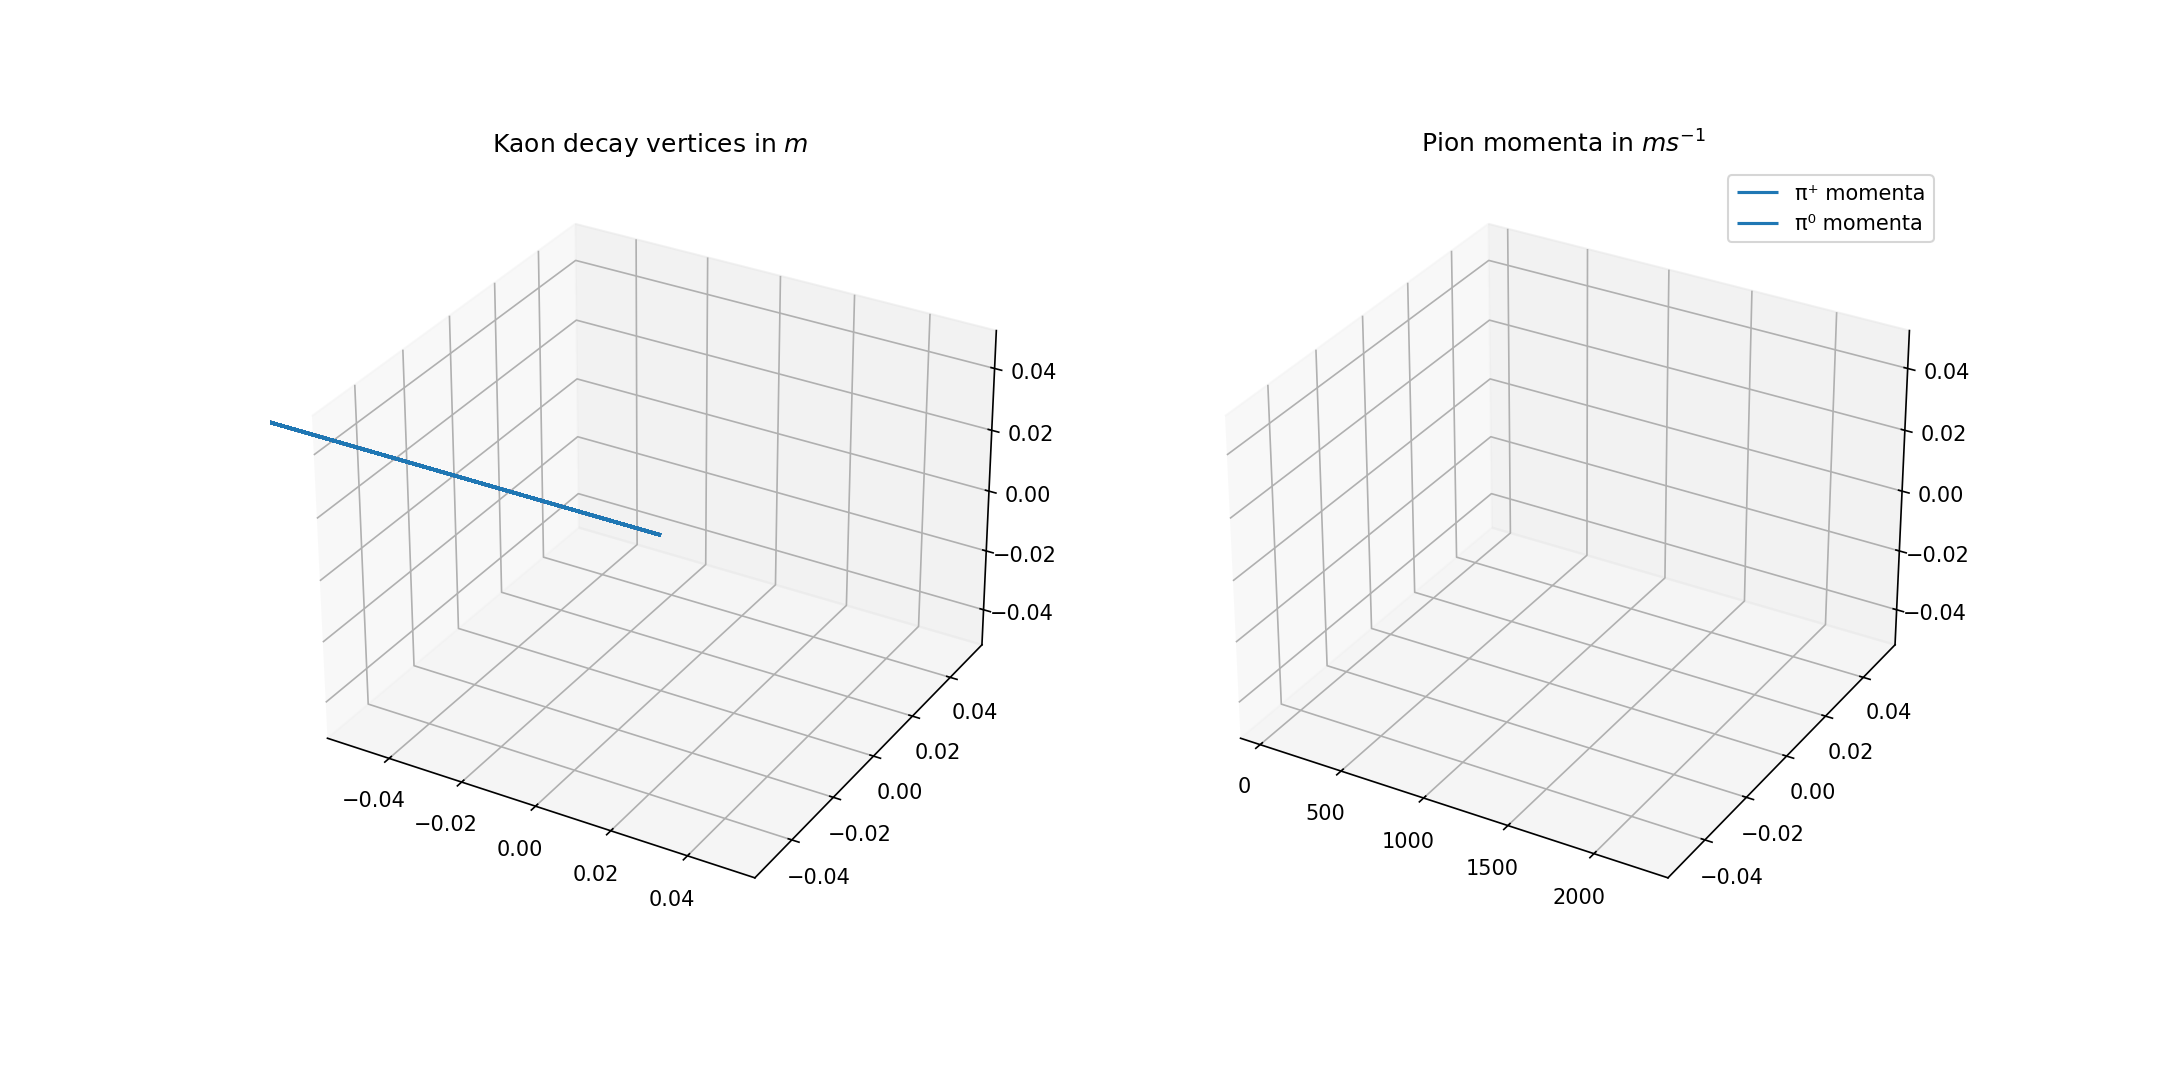
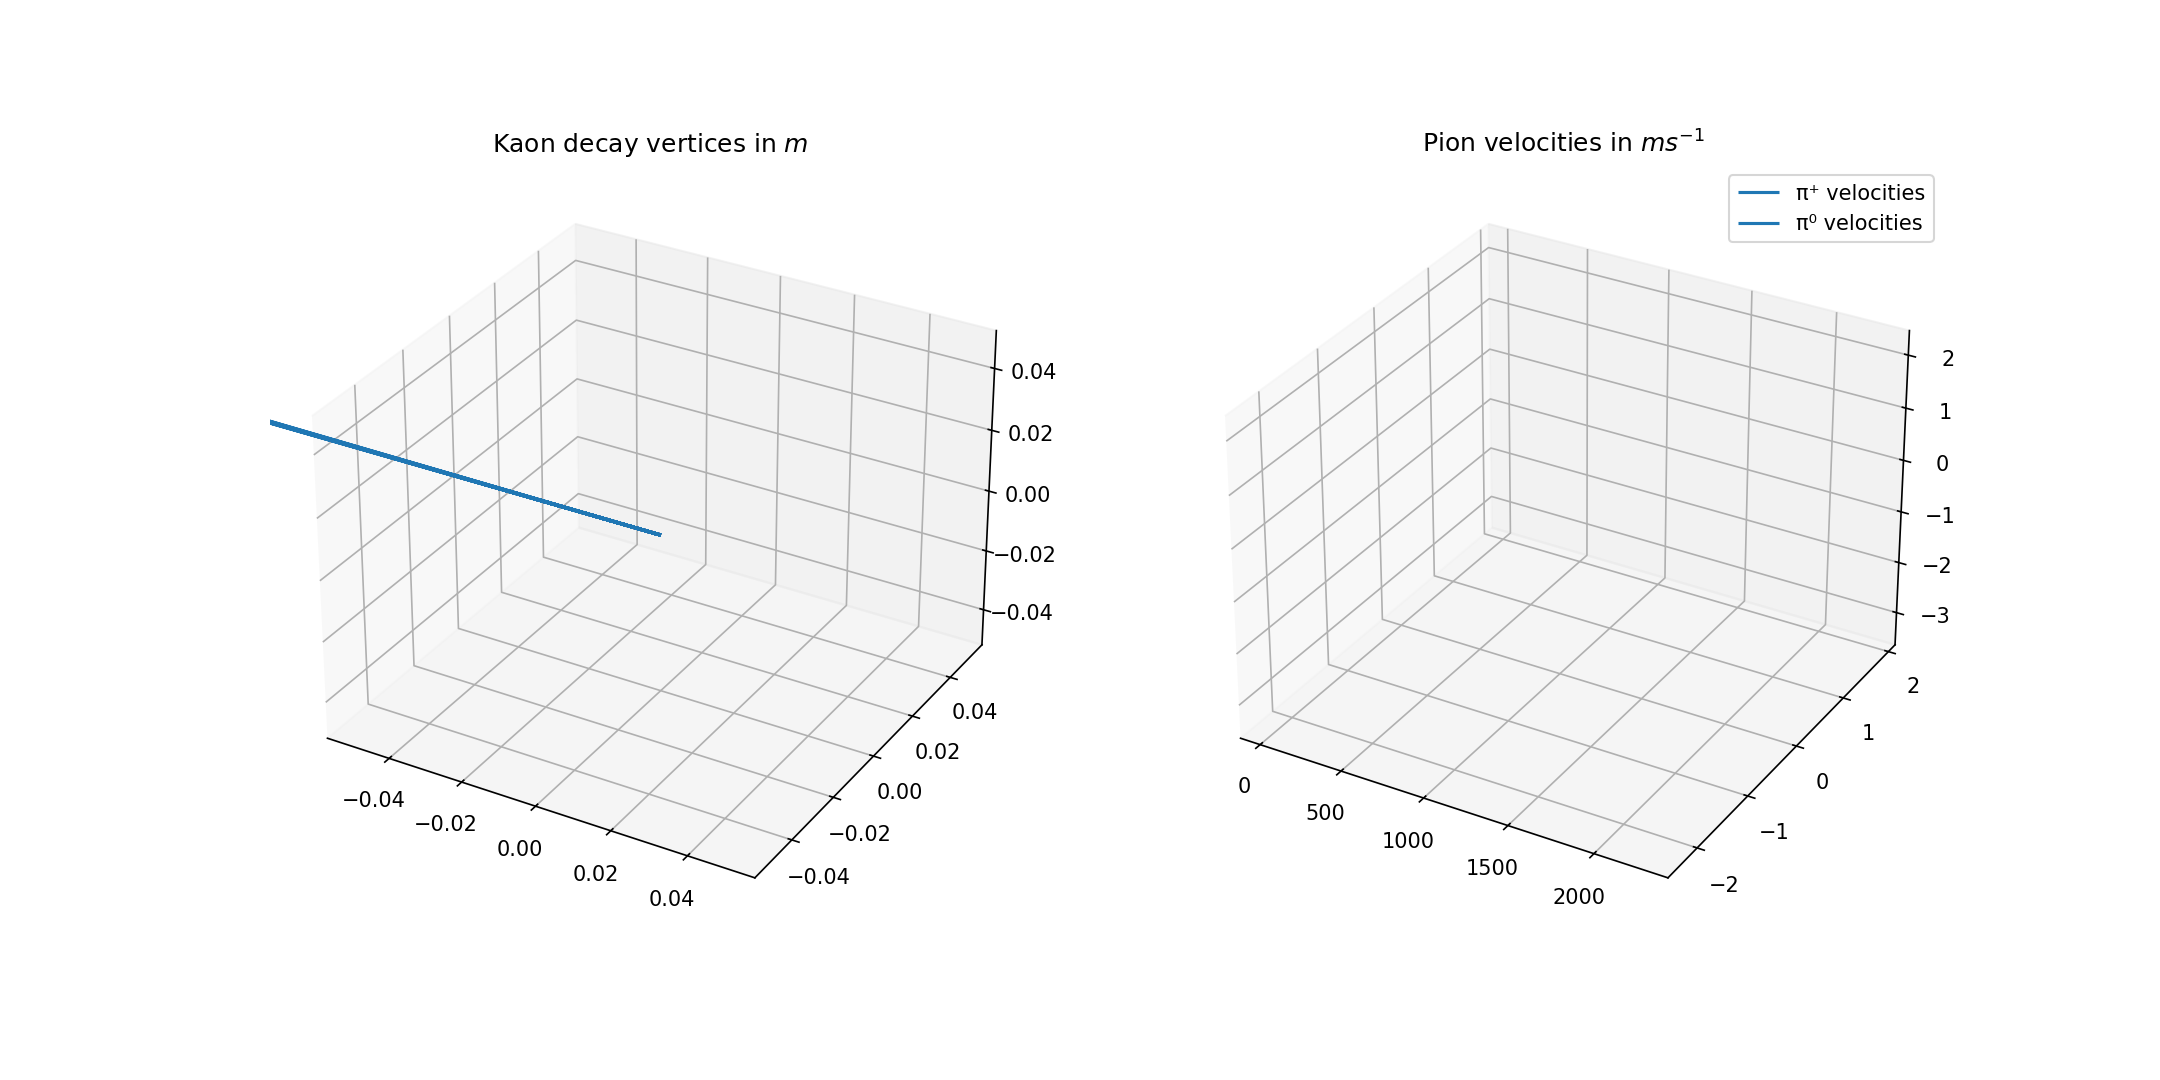
Update plot generation
Next to figure out:
 - Why are the decay vertices backwards
 - Why are none of the velocities appearing

diff --git a/scripts/generate_plots.py b/scripts/generate_plots.py
@@ -7,7 +7,7 @@ import matplotlib.pyplot as plt
 from numpy.typing import NDArray
 
 from find_dec_length import nll, distribution
-from common import Cache, MAGIC as M
+from common import Cache, MAGIC as M, CONSTANTS as C
 
 global logger
 logger = logging.getLogger(__name__)
@@ -64,11 +64,13 @@ def plot_nll(cache: Cache):
 def plot3d(a: NDArray, name: str):
     fig, (ax1, ax2) = plt.subplots(1, 2, figsize=(14.4, 7.2), dpi=150, subplot_kw={"projection":"3d"})
     a = a[::M.sample_size//100] # only take 100 element subset of sample
+    a[:,1,:] = a[:,1,:] / C.m_pp
+    a[:,2,:] = a[:,2,:] / C.m_np
     ax1.quiver(empty := np.zeros(a.shape[0]), empty, empty, a[:,0,2], a[:,0,0], a[:,0,1])
-    ax2.quiver(a[:,0,2], a[:,0,0], a[:,0,1], a[:,1,2], a[:,1,0], a[:,1,1], label="π⁺ momenta")
-    ax2.quiver(a[:,0,2], a[:,0,0], a[:,0,1], a[:,2,2], a[:,2,0], a[:,2,1], label="π⁰ momenta")
+    ax2.quiver(a[:,0,2], a[:,0,0], a[:,0,1], a[:,1,2], a[:,1,0], a[:,1,1], label="π⁺ velocities")
+    ax2.quiver(a[:,0,2], a[:,0,0], a[:,0,1], a[:,2,2], a[:,2,0], a[:,2,1], label="π⁰ velocities")
     ax1.set_title("Kaon decay vertices in $m$")
-    ax2.set_title("Pion momenta in $ms^{-1}$")
+    ax2.set_title("Pion velocities in $ms^{-1}$")
     ax2.legend()
     fig.savefig(f"./graphs/task3_sample_{name.replace(' ', '_')}.png")
 
